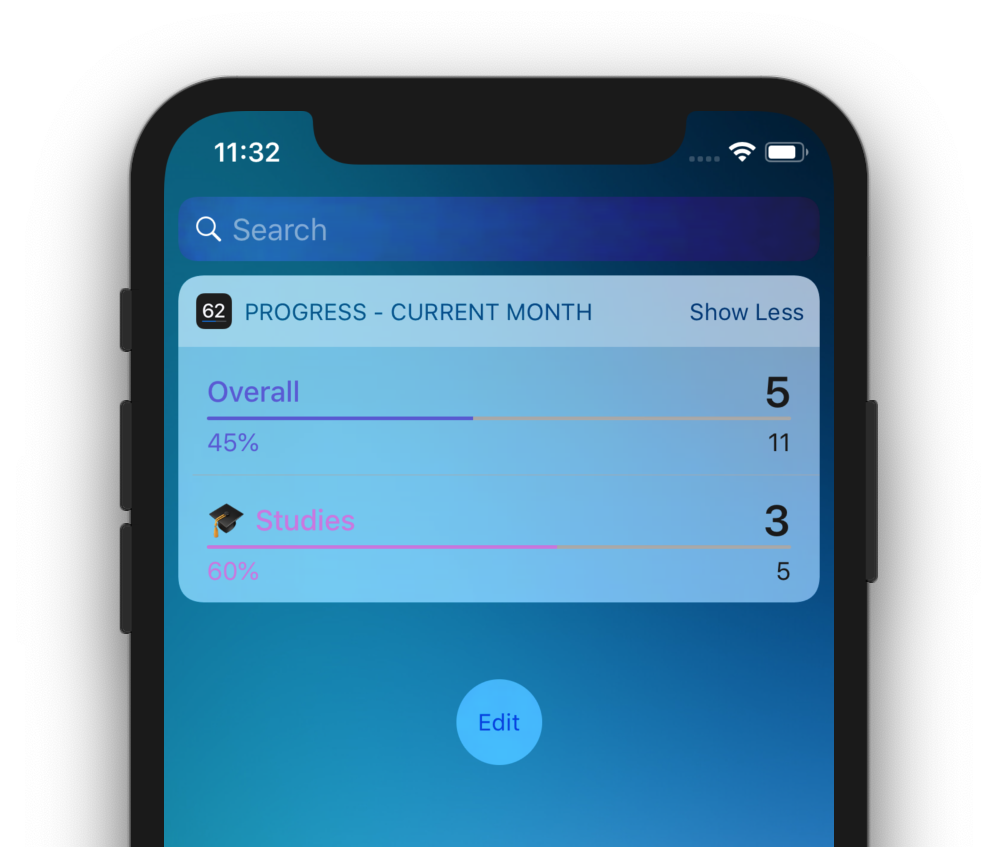
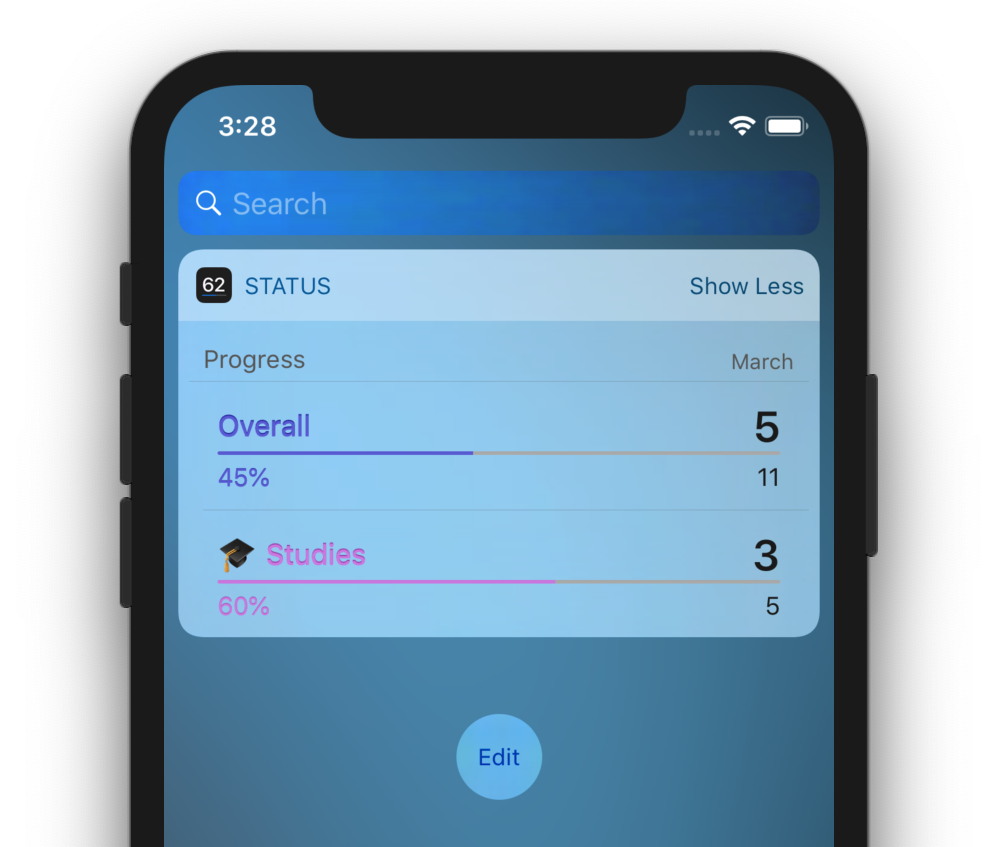
Updates for v0.8.1

diff --git a/index.html b/index.html
@@ -79,7 +79,7 @@ facebook:
 			<div class="text editable">
 				<h2><strong><img src="/images/emojis/hundred-points-symbol.png" alt="Hundred Points Symbol Emoji" class="emoji" /> stay engaged.</strong></h2>
 				<p>
-					Use the Today Widgets to stay engaged. Widgets are available for weekly and monthly timespans.
+					Use the Today-Widget to stay engaged. This way your progress is always just one swipe away.
 				</p>
 			</div>
 			<div class="image">

diff --git a/_posts/2019-02-01-howto-getting-started-with-progress-for-apple-reminders.md b/_posts/2019-02-01-howto-getting-started-with-progress-for-apple-reminders.md
@@ -19,18 +19,6 @@ Please note Progress for Apple Reminders is not designed to replace the Apple Re
 
 In Progress for Apple Reminders you're able to choose between the display styles _progress_ and _remaining_. You can choose whichever you prefer.
 
-#### Display style "progress"
-
-The progress display style is based on what you already achieved. For example: If you have a total of six reminders in your _Studies_ list and two out of six are done, the report shows you a progress of 33% towards your goal:
-
-![Display style 'progress' in Progress for Apple Reminders](/images/Progress-for-Apple-Reminders-Display-Style-Progress.jpg)
-
-#### Display style "remaining"
-
-The remaining display style is based on what you still need to do. For example: If you have a total of six reminders in your _Studies_ list and two out of six are done, the report shows that there are 66% left until you reach your goal:
-
-![Display style 'remaining' in Progress for Apple Reminders](/images/Progress-for-Apple-Reminders-Display-Style-Remaining.jpg)
-
 ## 1. Let's start: Define your goals
 
 The concept of "reaching goals" is at the heart of Progress for Apple Reminders. As a consequence the first step you need to do in order to make Progress for Apple Reminders actually useful is to define your goals.
@@ -53,33 +41,33 @@ Once you defined your goals, it's time to add reports in Progress for Apple Remi
 
 You have a bunch of stuff in the Apple Reminders list _Studies_ and your goal is to get everything done. To track your progress add a report with the following settings:
 
-**Display style**: _personal taste (see preliminary notes above)_
-
-**Period**: _overall_
+**Style**: _personal taste (see preliminary notes above)_
 
 **List**: _Studies_
 
 **Search term**: _none_
 
-**Goal**: _all_
+**Period**: _overall_
 
-**Measured according to priority**: _Disabled_
+**Number**: _all_
+
+**Depends on priority**: _Disabled_
 
 ### Example: Finish three to-dos per week of a given project
 
 You have a bunch of stuff in the Apple Reminders list _Studies_ and your goal is to work on these regularly: You want to get at least three to-dos done per week. To track your progress add a report with the following settings:
 
-**Display style**: _personal taste (see preliminary notes above)_
-
-**Period**: _current week_
+**Style**: _personal taste (see preliminary notes above)_
 
 **List**: _Studies_
 
 **Search term**: _none_
 
-**Goal**: _3_
+**Period**: _current week_
 
-**Measured according to priority**: _Disabled_
+**Number**: _3_
+
+**Depends on priority**: _Disabled_
 
 ### Example: Read everyday
 
@@ -87,36 +75,22 @@ You're now maybe tempted to add a list _Reading_ to Apple Reminders and report o
 
 That's why we use a different strategy this time: Let's define a _#read_ tag. Even though Apple Reminders does not support tags natively, we're still able to add them as simple text. Now, to track how your doing on your _#read_ tag, we add a report with the following settings:
 
-**Display style**: _personal taste (see preliminary notes above)_
-
-**Period**: _current week_
+**Style**: _personal taste (see preliminary notes above)_
 
 **List**: _all_
 
 **Search term**: _#read_
 
-**Goal**: _7_
+**Period**: _current week_
 
-**Measured according to priority**: _Disabled_
+**Number**: _7_
 
-## Stay engaged with Today-Widgets
+**Depends on priority**: _Disabled_
 
-To see the progress bars in the Today-Screen, the following conditions have to be met.
+## Stay engaged with the Today-Widget
 
-### In the report settings, make sure that:
-
-**Period**: Is either _current week_, _last week_, _current month_, or _last month_.
-
-**Show in Today-Widget**: Is _Enabled_.
-
-### In case your report still doesn't appear in the Today-Widget
-
-Please double check the report settings and make sure you've added the Today-Widget corresponding to the period chosen in the report. If the problem persists, please drop me a line at [support@progress.rocks](mailto:support@progress.rocks)
-
-### Today-Widget for "overall" period
-
-As of now there is no Today-Widget for the _overall_ period. This is due to the tight memory limits of Today-Widgets. I’m still testing if the Today-Widgets are guaranteed to work, even if there are tons of reminders in the Reminders app. If the overall Today-Widget is what you are looking for, [please drop me a line](mailto:support@progress.rocks) containing the approximately amount of reminders you add to Apple Reminders per week.
+To see the progress bar in the Today-Screen, make sure you've enabled "Show in Today-Widget" in your report configuration.
 
 ## Get creative
 
-This guide should give you an idea of what's possible with Progress for Apple Reminders. Now start defining your goals, add reports and start beating the bar!
+This guide should give you a brief idea of what's possible with Progress for Apple Reminders. Now start defining your goals, add reports and start beating the bar!
